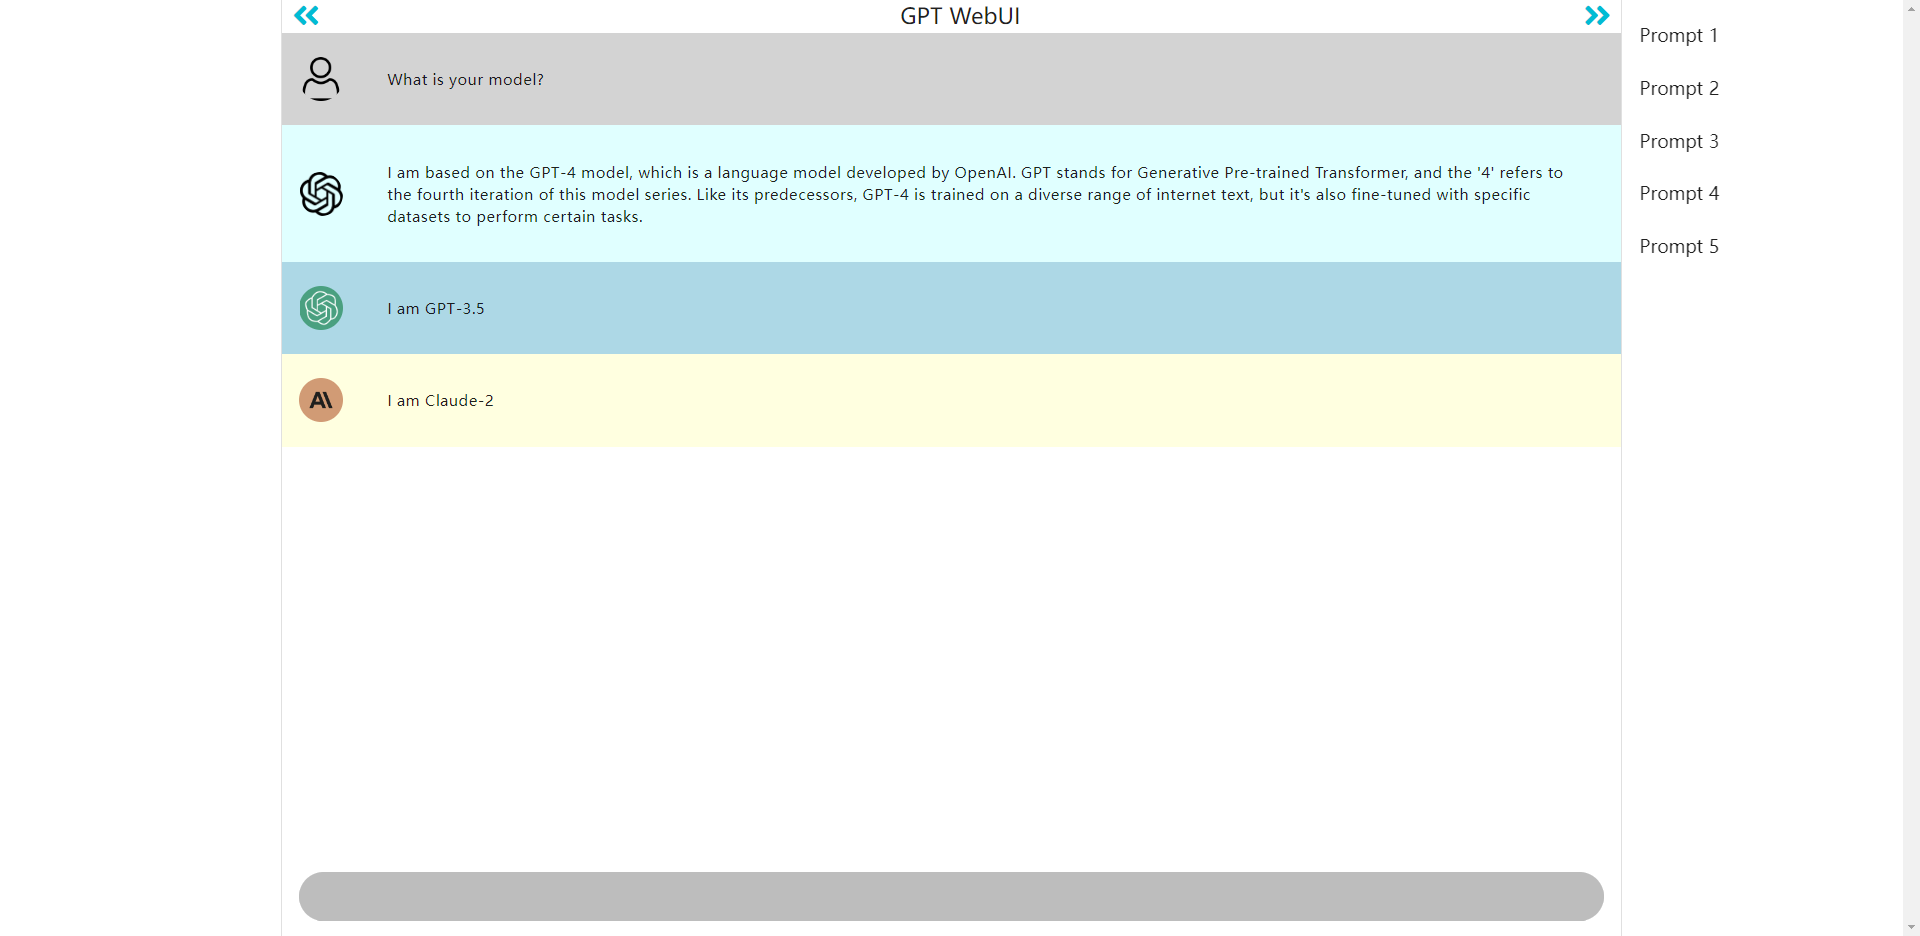
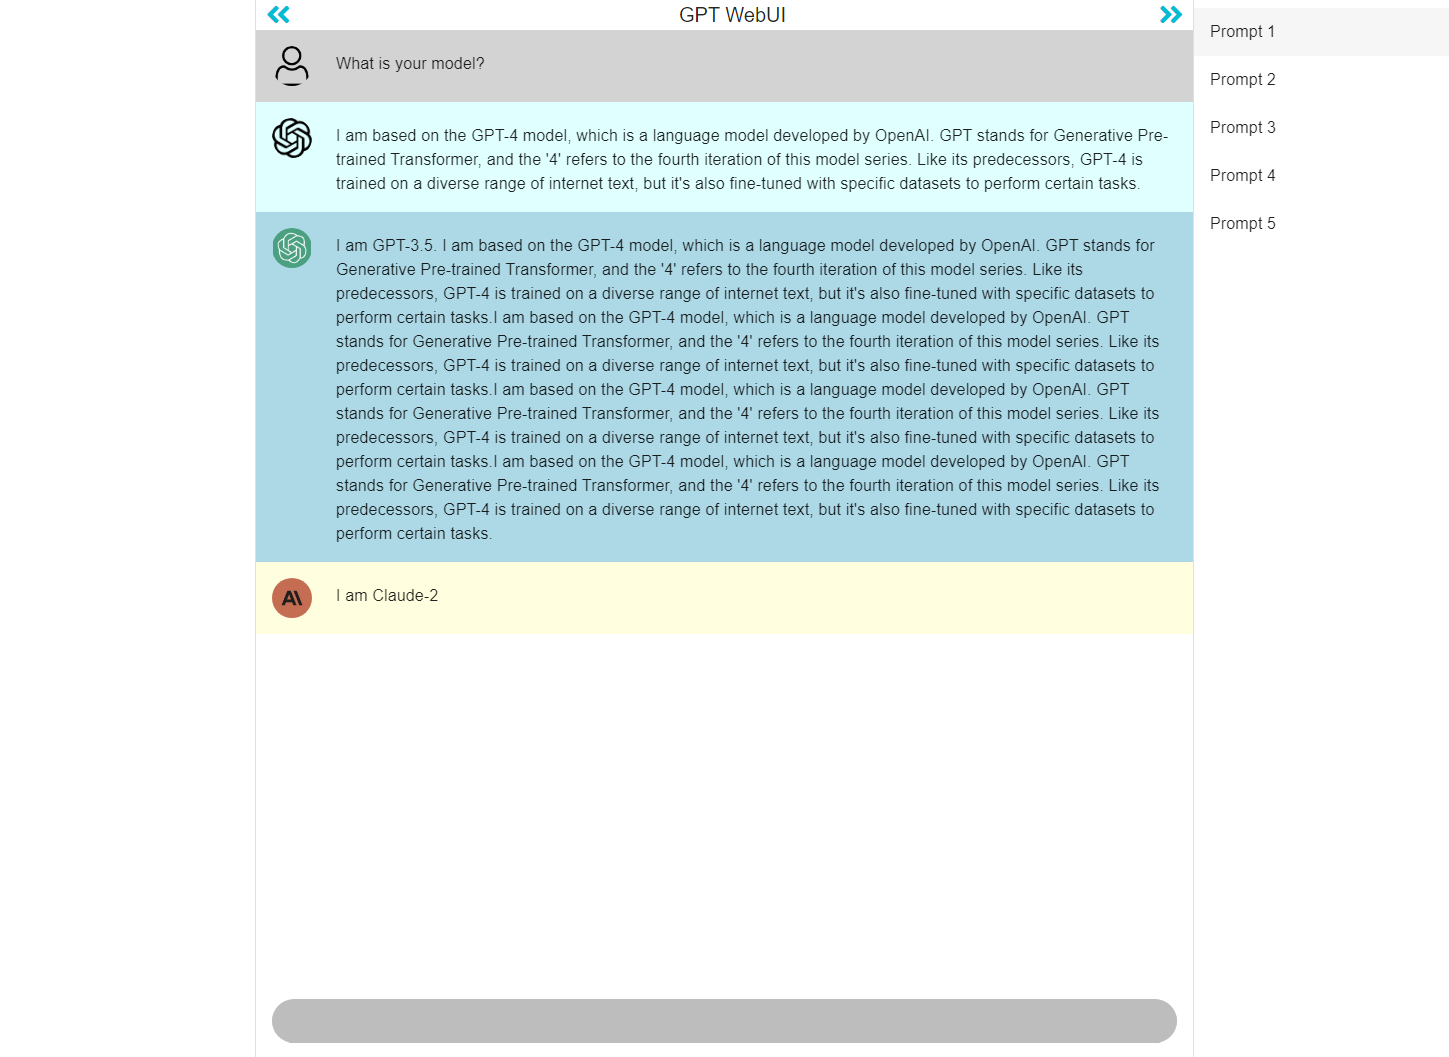
[Feature] Remove margin for v-textarea, and set rows to 1 by default

Changed region(s): [[0.1242, 0.0, 0.9006, 0.6197], [0.1553, 0.9295, 0.8385, 0.9915]]

diff --git a/src/components/Chats.vue b/src/components/Chats.vue
@@ -28,7 +28,8 @@ export default defineComponent({
       {
         model: 'gpt-3.5',
         role: 'llm',
-        content: 'I am GPT-3.5'
+        content:
+          "I am GPT-3.5. I am based on the GPT-4 model, which is a language model developed by OpenAI. GPT stands for Generative Pre-trained Transformer, and the '4' refers to the fourth iteration of this model series. Like its predecessors, GPT-4 is trained on a diverse range of internet text, but it's also fine-tuned with specific datasets to perform certain tasks.I am based on the GPT-4 model, which is a language model developed by OpenAI. GPT stands for Generative Pre-trained Transformer, and the '4' refers to the fourth iteration of this model series. Like its predecessors, GPT-4 is trained on a diverse range of internet text, but it's also fine-tuned with specific datasets to perform certain tasks.I am based on the GPT-4 model, which is a language model developed by OpenAI. GPT stands for Generative Pre-trained Transformer, and the '4' refers to the fourth iteration of this model series. Like its predecessors, GPT-4 is trained on a diverse range of internet text, but it's also fine-tuned with specific datasets to perform certain tasks.I am based on the GPT-4 model, which is a language model developed by OpenAI. GPT stands for Generative Pre-trained Transformer, and the '4' refers to the fourth iteration of this model series. Like its predecessors, GPT-4 is trained on a diverse range of internet text, but it's also fine-tuned with specific datasets to perform certain tasks."
       },
       {
         model: 'claude-2',
@@ -67,13 +68,12 @@ export default defineComponent({
 <template>
   <div>
     <v-container
-      fill-height
       fluid
       v-for="(message, idx) in messages"
       :key="idx"
       :class="llm_configs[message.model]['class']"
     >
-      <v-row align="center">
+      <v-row align="start">
         <v-col cols="auto">
           <v-avatar>
             <v-img
@@ -82,13 +82,22 @@ export default defineComponent({
             />
           </v-avatar>
         </v-col>
-        <v-col><v-card variant="text" :text="message.content"></v-card></v-col>
+        <v-col>
+          <v-textarea
+            variant="plain"
+            v-model="message.content"
+            rows="1"
+            hide-details
+            auto-grow
+          ></v-textarea>
+        </v-col>
       </v-row>
     </v-container>
   </div>
 </template>
 
 <style>
+/* classes of different models */
 .user-chats {
   background-color: lightgray;
 }
@@ -100,5 +109,18 @@ export default defineComponent({
 }
 .claude-2-chats {
   background-color: lightyellow;
+}
+
+/* padding and min-height of textarea of chats */
+.v-input--density-default {
+  --v-input-padding-top: 0px !important;
+}
+.v-field__input {
+  min-height: calc(
+    max(
+        var(--v-input-control-height, 56px),
+        1.5rem + var(--v-field-input-padding-top) + var(--v-field-input-padding-bottom)
+      ) + var(--v-input-chips-margin-bottom) - 5px
+  ) !important;
 }
 </style>
